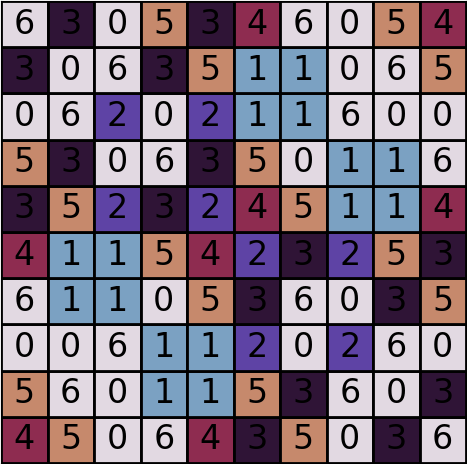
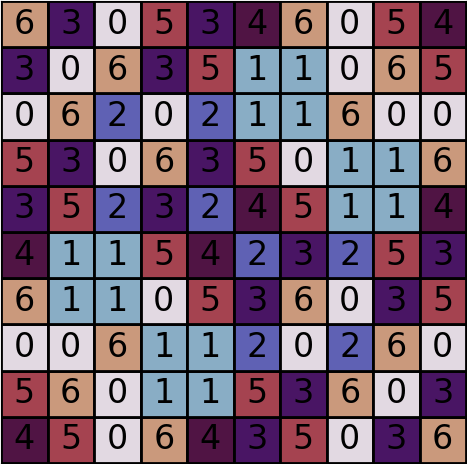
editing

diff --git a/assets/javascript.js b/assets/javascript.js
@@ -34,11 +34,11 @@
        }
 
         var img = document.getElementById('art3').src;
-        if (img.indexOf('pretty-puzzle-plasma.png')!=-1) {
-            document.getElementById('art3').src  = '/assets/art-page/pretty-puzzle-plasma_solved.png';
+        if (img.indexOf('pretty-puzzle-viridis.png')!=-1) {
+            document.getElementById('art3').src  = '/assets/art-page/pretty-puzzle-viridis_solved.png';
         }
          else {
-           document.getElementById('art3').src = '/assets/art-page/pretty-puzzle-plasma.png';
+           document.getElementById('art3').src = '/assets/art-page/pretty-puzzle-viridis.png';
        }
 
 

diff --git a/_layouts/home.html b/_layouts/home.html
@@ -30,6 +30,11 @@ layout: default
                     {{ post.text2 | escape }}
                 </div>
               {%- endif -%}
+              {%- if post.text3 != "" -%}
+                <div class="post-text">
+                    {{ post.text3 | escape }}
+                </div>
+              {%- endif -%}
               {%- if post.link != "" -%}
                 <a class="page-link" href="{{ post.url | relative_url }}">
                   {{ post.link | escape }}

diff --git a/_sass/minima/_layout.scss b/_sass/minima/_layout.scss
@@ -2,7 +2,9 @@
  * Site header
  */
 
-
+.half_img {
+max-width: 40%;
+}
 
 .small_img {
 max-width: 23%;
@@ -809,6 +811,7 @@ height: 100%;
 //  width: 45%;
   //max-width: 200px;
   text-align: left;
+  //white-space: pre-line;
  
 }
 
